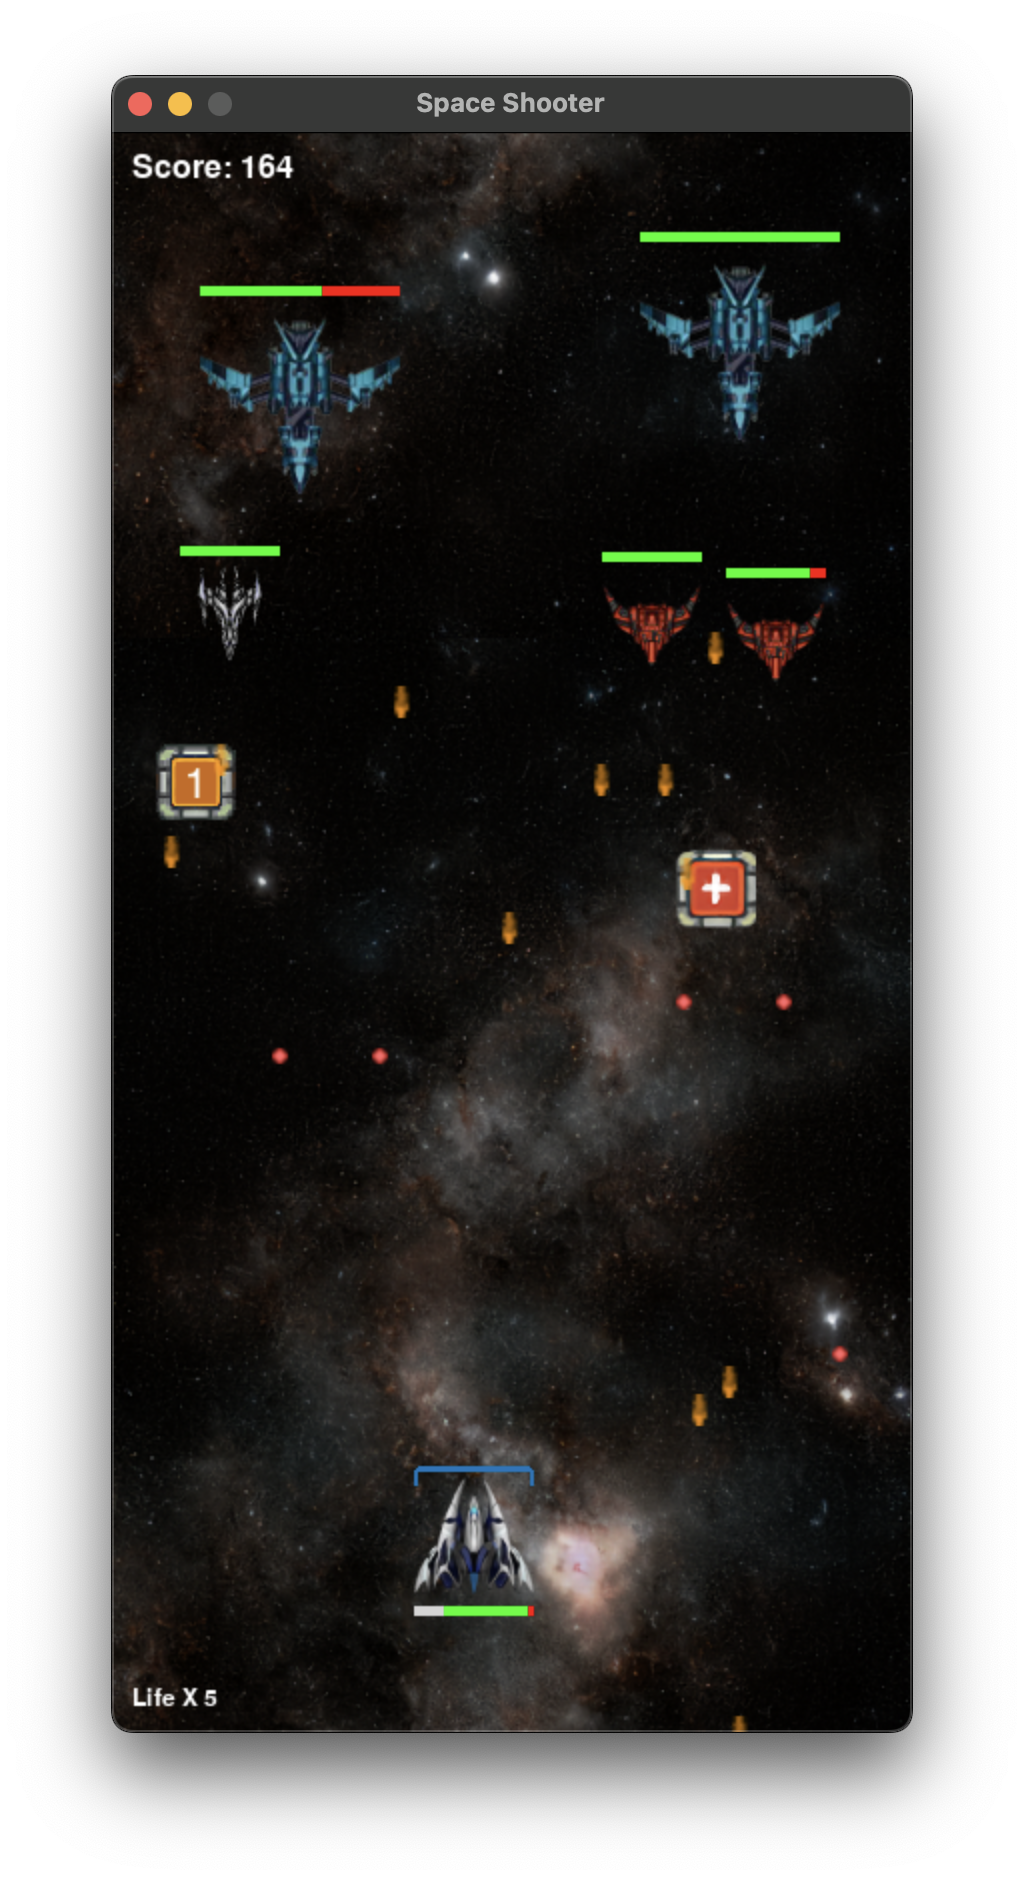
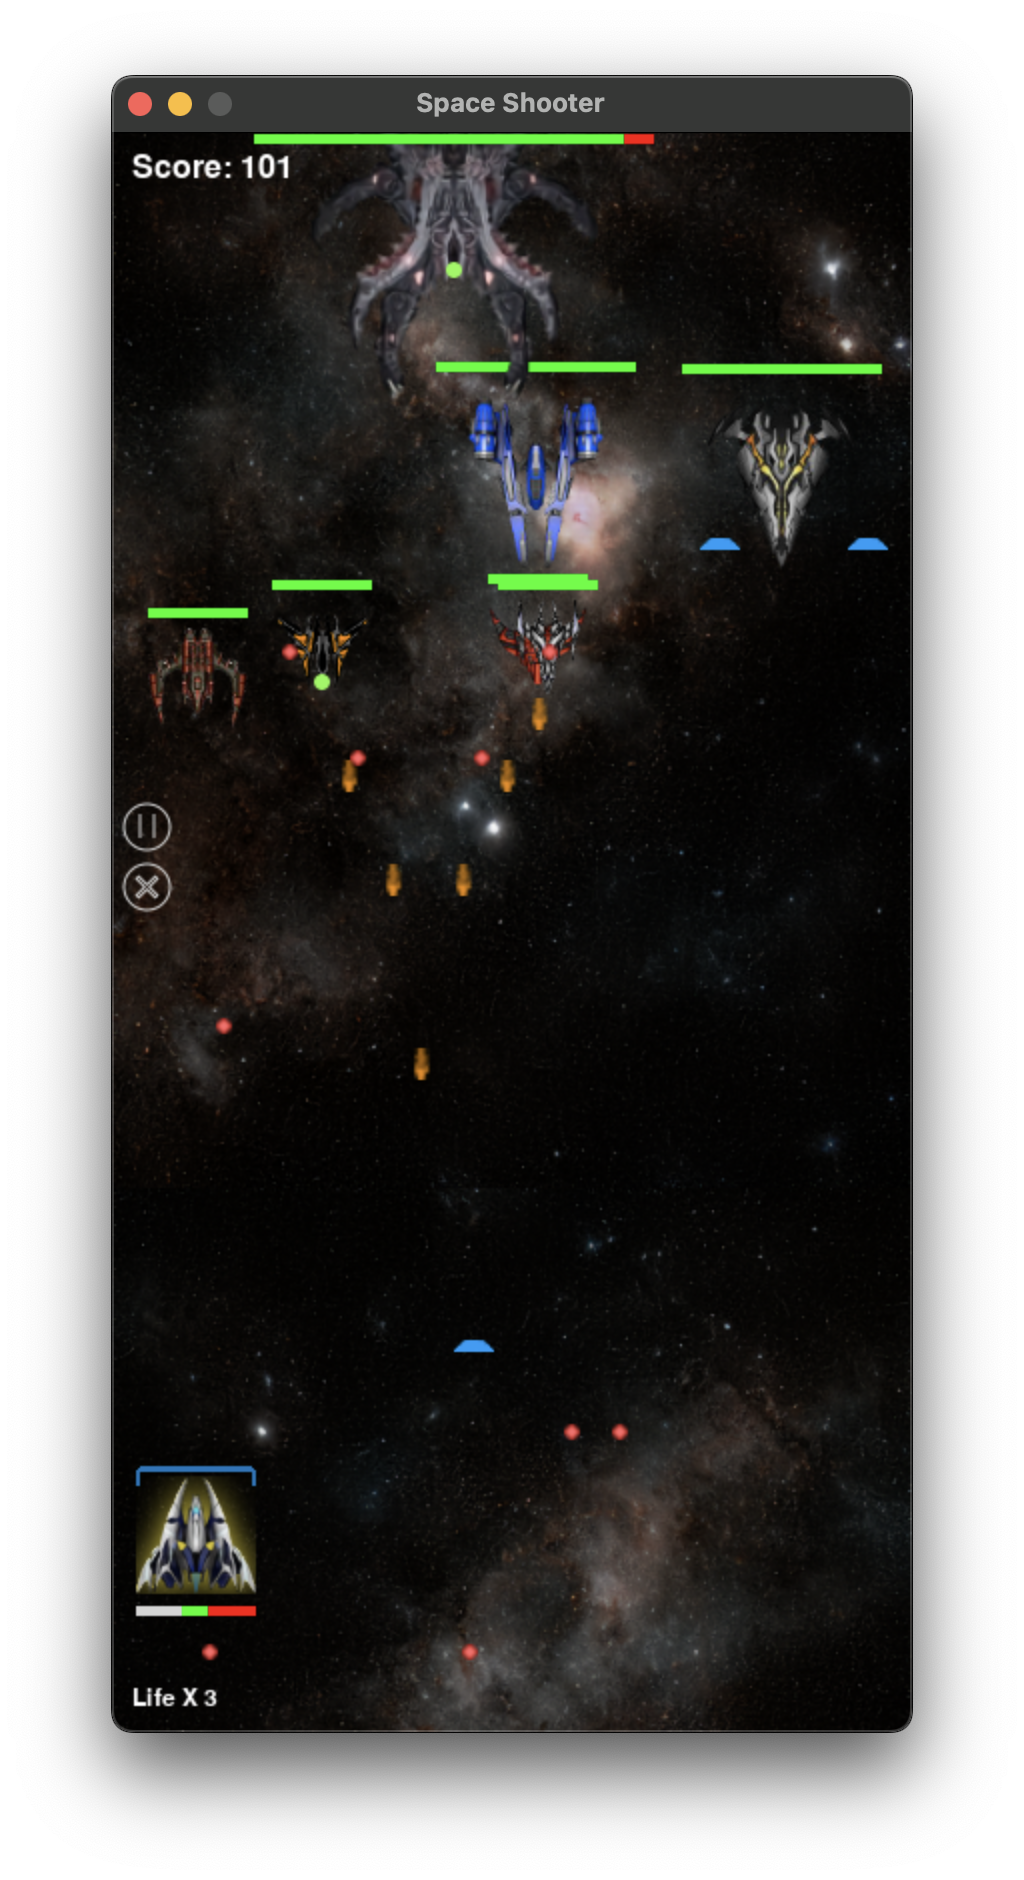
vB 1.2 Structure Update - New Buttons - Pause Screen

diff --git a/game.py b/game.py
@@ -142,7 +142,7 @@ def bullet_collision(block_list, bullet_list, spawn):
                         if spawn == ENEMY_SPAWN:
                             score += 1
                             current_block.image = pygame.transform.scale(explosion.get(), (
-                            ENEMY_SIZE, ENEMY_SIZE))  # Set Explosion Image
+                                ENEMY_SIZE, ENEMY_SIZE))  # Set Explosion Image
                         elif spawn == MINI_BOSS_SPAWN:
                             score += 5
                             current_block.image = pygame.transform.scale(explosion.get(),
@@ -263,7 +263,7 @@ def main():
     ################################################################################
     # Player Movement
     player.update()
-    # Movement of Each Enemy
+    # Movement of Enemy
     movement(block_list=enemies, spawn=ENEMY_SPAWN, size=ENEMY_SIZE)
     # Movement of Mini Boss
     movement(block_list=miniboss, spawn=MINI_BOSS_SPAWN, size=MINI_BOSS_SIZE)
@@ -404,7 +404,7 @@ if __name__ == "__main__":
     # Variable
     RUNNING, BULLET_FIRE = True, False
     enemy_exist = False
-    intro_screen, end_screen, score_board, error_screen, level_screen = True, False, False, False, False
+    intro_screen, end_screen, score_board, error_screen, level_screen, pause_screen = True, False, False, False, False, False
     background_timer = time.time()
     # Storage
     highest_score = 0
@@ -439,46 +439,50 @@ if __name__ == "__main__":
             # Event of Mouse Click
             if event.type == pygame.MOUSEBUTTONDOWN:
                 # Intro Screen
-                if intro_screen and buttons.name('level').rect.collidepoint(event.pos):
-                    intro_screen = False
-                    level_screen = True
-                elif intro_screen and buttons.name('endless').rect.collidepoint(event.pos):
-                    intro_screen = False
+                if intro_screen:
+                    if buttons.name('level').rect.collidepoint(event.pos):
+                        intro_screen = False
+                        level_screen = True
+                    elif buttons.name('endless').rect.collidepoint(event.pos):
+                        intro_screen = False
                 # End Screen
-                elif end_screen and buttons.name('restart').rect.collidepoint(event.pos):
-                    # Restart Endless Run
-                    end_screen = False
-                    # Reset Player
-                    score = 0
-                    player.life[1] = player.life[0]
-                    player.reset()
-                    player.invincible_at = time.time()
-                    # Reset Enemy and Bullets
-                    reset_screen()
-                    enemy_exist = False
-                elif end_screen and buttons.name('main_menu').rect.collidepoint(event.pos):
-                    # Back to Main Menu/Intro Menu
-                    end_screen = False
-                    intro_screen = True
-                elif end_screen and buttons.name('score_board').rect.collidepoint(event.pos):
-                    # Show Score Board
-                    end_screen = False
-                    score_board = True
-                elif end_screen and buttons.name('quit').rect.collidepoint(event.pos):
-                    # Quit Game
-                    RUNNING = False
+                elif end_screen:
+                    if buttons.name('restart').rect.collidepoint(event.pos):
+                        # Restart Endless Run
+                        end_screen = False
+                        # Reset Player
+                        score = 0
+                        player.life[1] = player.life[0]
+                        player.reset()
+                        player.invincible_at = time.time()
+                        # Reset Enemy and Bullets
+                        reset_screen()
+                        enemy_exist = False
+                    elif buttons.name('main_menu').rect.collidepoint(event.pos):
+                        # Back to Main Menu/Intro Menu
+                        end_screen = False
+                        intro_screen = True
+                    elif buttons.name('score_board').rect.collidepoint(event.pos):
+                        # Show Score Board
+                        end_screen = False
+                        score_board = True
+                    elif buttons.name('quit').rect.collidepoint(event.pos):
+                        # Quit Game
+                        RUNNING = False
                 # Score Board Screen
-                elif score_board and buttons.name('main_menu').rect.collidepoint(event.pos):
-                    score_board = False
-                    intro_screen = True
-                elif score_board and buttons.name('quit').rect.collidepoint(event.pos):
-                    RUNNING = False
+                elif score_board:
+                    if buttons.name('main_menu').rect.collidepoint(event.pos):
+                        score_board = False
+                        intro_screen = True
+                    elif buttons.name('quit').rect.collidepoint(event.pos):
+                        RUNNING = False
                 # Error Screen
-                elif error_screen and buttons.name('main_menu').rect.collidepoint(event.pos):
-                    error_screen = False
-                    intro_screen = True
-                elif error_screen and buttons.name('score_board').rect.collidepoint(event.pos):
-                    RUNNING = False
+                elif error_screen:
+                    if buttons.name('main_menu').rect.collidepoint(event.pos):
+                        error_screen = False
+                        intro_screen = True
+                    elif buttons.name('score_board').rect.collidepoint(event.pos):
+                        RUNNING = False
                 # Level Screen
                 elif level_screen:
                     if buttons.name('easy').rect.collidepoint(event.pos):
@@ -497,6 +501,20 @@ if __name__ == "__main__":
                         level_screen = False
                         intro_screen = True
                     elif buttons.name('quit').rect.collidepoint(event.pos):
+                        RUNNING = False
+                # Pause Screen
+                elif pause_screen:
+                    if buttons.name('score_board').rect.collidepoint(event.pos):
+                        RUNNING = False
+                    elif buttons.name('resume').rect.collidepoint(event.pos):
+                        pause_screen = False
+                # Game Screen
+                else:
+                    if buttons.name('back').rect.collidepoint(event.pos):
+                        intro_screen = True
+                    elif buttons.name('pause').rect.collidepoint(event.pos):
+                        pause_screen = True
+                    elif buttons.name('exit').rect.collidepoint(event.pos):
                         RUNNING = False
             # Event of Key Press
             if event.type == pygame.KEYDOWN and not intro_screen and not end_screen:
@@ -591,6 +609,17 @@ if __name__ == "__main__":
             screen.blit(buttons.name('quit').image, buttons.name('quit').rect.topleft)
         ################################################################################
         ################################################################################
+        elif pause_screen:
+            # Show Score
+            score_text = font36.render("Current Score : " + str(score), True, WHITE)
+            score_text_rect = score_text.get_rect()
+            score_text_rect.center = (SCREEN_WIDTH // 2, SCREEN_HEIGHT // 2 - 50)
+            screen.blit(score_text, score_text_rect)
+            # Button
+            screen.blit(buttons.name('resume').image, buttons.name('resume').rect.topleft)
+            screen.blit(buttons.name('quit').image, buttons.name('score_board').rect.topleft)
+        ################################################################################
+        ################################################################################
         else:  # Normal Game
             # Generate Enemy - Level Selection
             if not enemy_exist:
@@ -606,6 +635,8 @@ if __name__ == "__main__":
                     enemy_generate(number=ENEMY_NUMBER)
                 enemy_exist = True
             # Endless Run
+            screen.blit(buttons.name('exit').image, buttons.name('exit').rect.topleft)
+            screen.blit(buttons.name('pause').image, buttons.name('pause').rect.topleft)
             main()  # Main Game Function - Endless Run
         # Update Pygame Screen
         pygame.display.update()

diff --git a/blockelements.py b/blockelements.py
@@ -380,7 +380,9 @@ def crate_movement():
 ##################################################
 buttons = ButtonList()
 button_names = ['endless', 'level', 'main_menu', 'quit', 'restart', 'score_board',
-                'easy', 'medium', 'hard', 'hell']
+                'easy', 'medium', 'hard', 'hell',
+                'back', 'exit', 'pause',
+                'resume']
 for item in button_names:
     buttons.append(name=item)
 # Intro Screen
@@ -396,6 +398,12 @@ buttons.name(name='easy').rect.topleft = (150, 240)
 buttons.name(name='medium').rect.topleft = (150, 300)
 buttons.name(name='hard').rect.topleft = (150, 360)
 buttons.name(name='hell').rect.topleft = (150, 420)
+# On Screen
+buttons.name(name='back').rect.topleft = (5, SCREEN_WIDTH - 20 - BUTTON_SIZE_ON_SCREEN[0] * 3)
+buttons.name(name='pause').rect.topleft = (5, SCREEN_WIDTH - 15 - BUTTON_SIZE_ON_SCREEN[0] * 2)
+buttons.name(name='exit').rect.topleft = (5, SCREEN_WIDTH - 10 - BUTTON_SIZE_ON_SCREEN[0])
+# Pause Screen
+buttons.name(name='resume').rect.topleft = (150, 480)
 
 ##################################################
 # Explosion Image Block

diff --git a/settings.py b/settings.py
@@ -91,6 +91,7 @@ BLACK = (0, 0, 0)
 # Button Size
 BUTTON_SIZE_INTRO = (100, 50)
 BUTTON_SIZE_END = (150, 50)
+BUTTON_SIZE_ON_SCREEN = (25, 25)
 
 
 ##################################################
